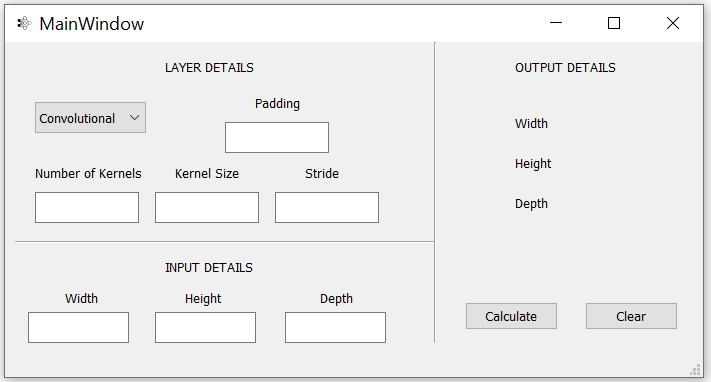
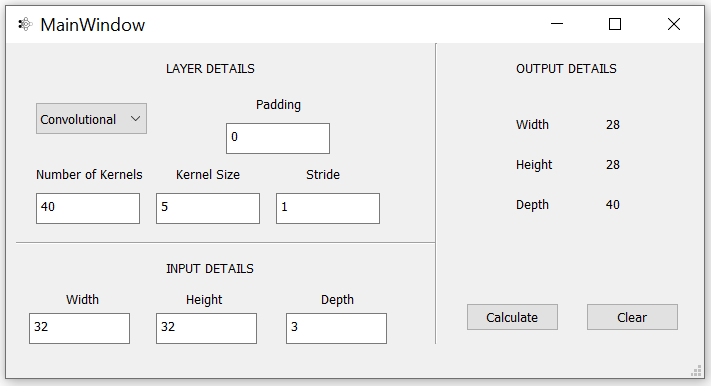
Finished connecting the logic with the inputs to the GUI; Added error handling message; Added comments to the code; Started disabling "kernel number" when pooling layer chosen.

diff --git a/GUI.py b/GUI.py
@@ -24,6 +24,7 @@ class Ui_MainWindow(object):
         self.line_2.setFrameShadow(QtWidgets.QFrame.Sunken)
         self.line_2.setObjectName("line_2")
         
+        #drop down list to choose type of layer
         self.comboBox = QtWidgets.QComboBox(self.centralwidget)
         self.comboBox.setGeometry(QtCore.QRect(30, 60, 111, 31))
         self.comboBox.setMaximumSize(QtCore.QSize(111, 31))
@@ -40,11 +41,13 @@ class Ui_MainWindow(object):
         self.label_2.setGeometry(QtCore.QRect(30, 120, 111, 21))
         self.label_2.setObjectName("label_2")
         
+        #input for number of kernels; for convolutional layers
         self.kernel_num_txt = QtWidgets.QTextEdit(self.centralwidget)
         self.kernel_num_txt.setGeometry(QtCore.QRect(30, 150, 104, 31))
         self.kernel_num_txt.setObjectName("kernel_num_txt")
         self.text_boxes.append(self.kernel_num_txt)
 
+        #input for kernel size
         self.kernel_size_txt = QtWidgets.QTextEdit(self.centralwidget)
         self.kernel_size_txt.setGeometry(QtCore.QRect(150, 150, 104, 31))
         self.kernel_size_txt.setObjectName("kernel_size_txt")
@@ -62,11 +65,13 @@ class Ui_MainWindow(object):
         self.label_5.setGeometry(QtCore.QRect(300, 120, 41, 21))
         self.label_5.setObjectName("label_5")
         
+        #input to specify padding (if any); for convolutional layer
         self.padding_txt = QtWidgets.QTextEdit(self.centralwidget)
         self.padding_txt.setGeometry(QtCore.QRect(220, 80, 104, 31))
         self.padding_txt.setObjectName("padding_txt")
         self.text_boxes.append(self.padding_txt)
 
+        #input to specify stride
         self.stride_txt = QtWidgets.QTextEdit(self.centralwidget)
         self.stride_txt.setGeometry(QtCore.QRect(270, 150, 104, 31))
         self.stride_txt.setObjectName("stride_txt")
@@ -88,6 +93,7 @@ class Ui_MainWindow(object):
         self.label_9.setGeometry(QtCore.QRect(315, 245, 41, 21))
         self.label_9.setObjectName("label_9")
         
+        #text boxes to input input dimensions
         self.inp_width_txt = QtWidgets.QTextEdit(self.centralwidget)
         self.inp_width_txt.setGeometry(QtCore.QRect(23, 270, 101, 31))
         self.inp_width_txt.setObjectName("inp_width_txt")
@@ -103,11 +109,13 @@ class Ui_MainWindow(object):
         self.inp_depth_txt.setObjectName("inp_depth_txt")
         self.text_boxes.append(self.inp_depth_txt)
 
+        #button to calculate output dimensions
         self.calculateButton = QtWidgets.QPushButton(self.centralwidget)
         self.calculateButton.setGeometry(QtCore.QRect(460, 260, 93, 28))
         self.calculateButton.setObjectName("calculateButton")
         self.calculateButton.clicked.connect(self.calculate)
 
+        #button to clear text boxes and some labels
         self.clearButton = QtWidgets.QPushButton(self.centralwidget)
         self.clearButton.setGeometry(QtCore.QRect(580, 260, 93, 28))
         self.clearButton.setObjectName("clearButton")
@@ -129,6 +137,7 @@ class Ui_MainWindow(object):
         self.label_13.setGeometry(QtCore.QRect(510, 150, 51, 21))
         self.label_13.setObjectName("label_13")
         
+        #labels used to display calculated output
         self.out_width_label = QtWidgets.QLabel(self.centralwidget)
         self.out_width_label.setGeometry(QtCore.QRect(600, 70, 55, 21))
         self.out_width_label.setObjectName("out_width_label")
@@ -141,6 +150,11 @@ class Ui_MainWindow(object):
         self.out_depth_label.setGeometry(QtCore.QRect(600, 150, 55, 21))
         self.out_depth_label.setObjectName("out_depth_label")
         
+        #label to display error message if calculation fails
+        self.error_label = QtWidgets.QLabel(self.centralwidget)
+        self.error_label.setGeometry(QtCore.QRect(450, 220, 101, 30))
+        self.error_label.setObjectName("error_label")
+
         MainWindow.setCentralWidget(self.centralwidget)
         self.statusbar = QtWidgets.QStatusBar(MainWindow)
         self.statusbar.setObjectName("statusbar")
@@ -176,45 +190,66 @@ class Ui_MainWindow(object):
         self.out_width_label.setText(_translate("MainWindow", ""))
         self.out_height_label.setText(_translate("MainWindow", ""))
         self.out_depth_label.setText(_translate("MainWindow", ""))
-    
+
     def calculate(self):
         _translate = QtCore.QCoreApplication.translate
+        try:
+            h = int(self.inp_height_txt.toPlainText())
+            w = int(self.inp_width_txt.toPlainText())
+            d = int(self.inp_depth_txt.toPlainText())
+            
+            k_s = int(self.kernel_size_txt.toPlainText())
+            s = int(self.stride_txt.toPlainText())
+            
+            if self.comboBox.currentIndex() == 0:#if conv
+                k_n = int(self.kernel_num_txt.toPlainText())
+                p = int(self.padding_txt.toPlainText())
+                new_h, new_w, new_d = self.conv_layer(h, w, d, k_n, k_s, p, s)
+            else:#if pool
+                new_h, new_w, new_d = self.pooling_layer(h, w, d, k_s, s)
+            
+            self.out_height_label.setText(_translate("MainWindow", str(new_h)))
+            self.out_width_label.setText(_translate("MainWindow", str(new_w)))
+            self.out_depth_label.setText(_translate("MainWindow", str(new_d)))
+        except:#if error
+            self.error_label.setText(_translate("MainWindow", "Error! Fill all text boxes with integers!"))
+            self.update()
 
-        self.out_width_label.setText(_translate("MainWindow", self.inp_width_txt.toPlainText()))
-        self.out_height_label.setText(_translate("MainWindow", self.inp_height_txt.toPlainText()))
-        self.out_depth_label.setText(_translate("MainWindow", self.inp_depth_txt.toPlainText()))
-        self.update()
-    
     def clear(self):
         _translate = QtCore.QCoreApplication.translate
 
         self.out_width_label.setText(_translate("MainWindow", ""))
         self.out_height_label.setText(_translate("MainWindow", ""))
         self.out_depth_label.setText(_translate("MainWindow", ""))
+        self.error_label.setText(_translate("MainWindow", ""))
 
+        #empty all text boxes
         for i in range(len(self.text_boxes)):
             self.text_boxes[i].setPlainText(_translate("MainWindow", ""))
 
         self.update()
         
-    def update(self):
+    def update(self):#adjust sizes
         self.out_width_label.adjustSize()
         self.out_height_label.adjustSize()
         self.out_depth_label.adjustSize()
+        self.error_label.adjustSize()
 
-    def on_layer_changed(self, value):
+    def on_layer_changed(self, value):#disable/enable certain inputs depending on chosen layer
         if value == 0:
             self.padding_txt.setDisabled(False)
+            self.kernel_num_txt.setDisabled(False)
         else:
             self.padding_txt.setDisabled(True)
+            self.kernel_num_txt.setDisabled(True)
 
-    def conv_layer(self, in_h, in_w, in_d, kernels, kernel_size, padding, stride):
+    def conv_layer(self, in_h, in_w, in_d, kernels, kernel_size, padding, stride):#calculate output dimension of convolutional layer
         new_h = int((in_h-kernel_size+(2*padding))/stride)+1
         new_w = int((in_w-kernel_size+(2*padding))/stride)+1
         new_d = kernels
         return new_h, new_w, new_d
 
-    def pooling_layer(self, in_h, in_w, in_d, window_size, stride):
+    def pooling_layer(self, in_h, in_w, in_d, window_size, stride):#calculate output dimension of pooling layer
         new_h = int((in_h-window_size)/stride)+1
         new_w = int((in_w-window_size)/stride)+1
         new_d = in_d

diff --git a/README.md b/README.md
@@ -7,15 +7,19 @@ An application to calculate the output dimensions of a layer in a traditional co
   <li><s>Design basic GUI for inputs (using Qt Designer)</s></li>
   <li><s>Clean up the code generated from Qt Designer</s></li>
   <li><s>Start testing attaching commands to buttons and manipulating textboxes and labels</s></li>
-  <li>Add the logic code to the GUI</li>
-  <li>(Optional) Improve GUI, work on error handling</li>
+  <li><s>Add the logic code to the GUI</s></li>
+  <li><s>Add comments</s></li>
+  <li><s>(Optional) Improve GUI, work on error handling</s></li>
   <li>(For the future) Allow for multi-layer input-output</li>
 </ol>
 
-# GUI prototype preview
+# GUI Preview
 ### Convolutional Layer
 
 ![GUI prototype](https://github.com/MohamedMoustafaNUIG/ConvNet-Dimension-Calculator/blob/main/Assets/GUI_conv.PNG)
 
 ### Pooling Layer
 ![GUI prototype](https://github.com/MohamedMoustafaNUIG/ConvNet-Dimension-Calculator/blob/main/Assets/GUI_pool.PNG?raw=true)
+
+### Error Notification
+![GUI prototype](https://github.com/MohamedMoustafaNUIG/ConvNet-Dimension-Calculator/blob/main/Assets/GUI_error.PNG?raw=true)
